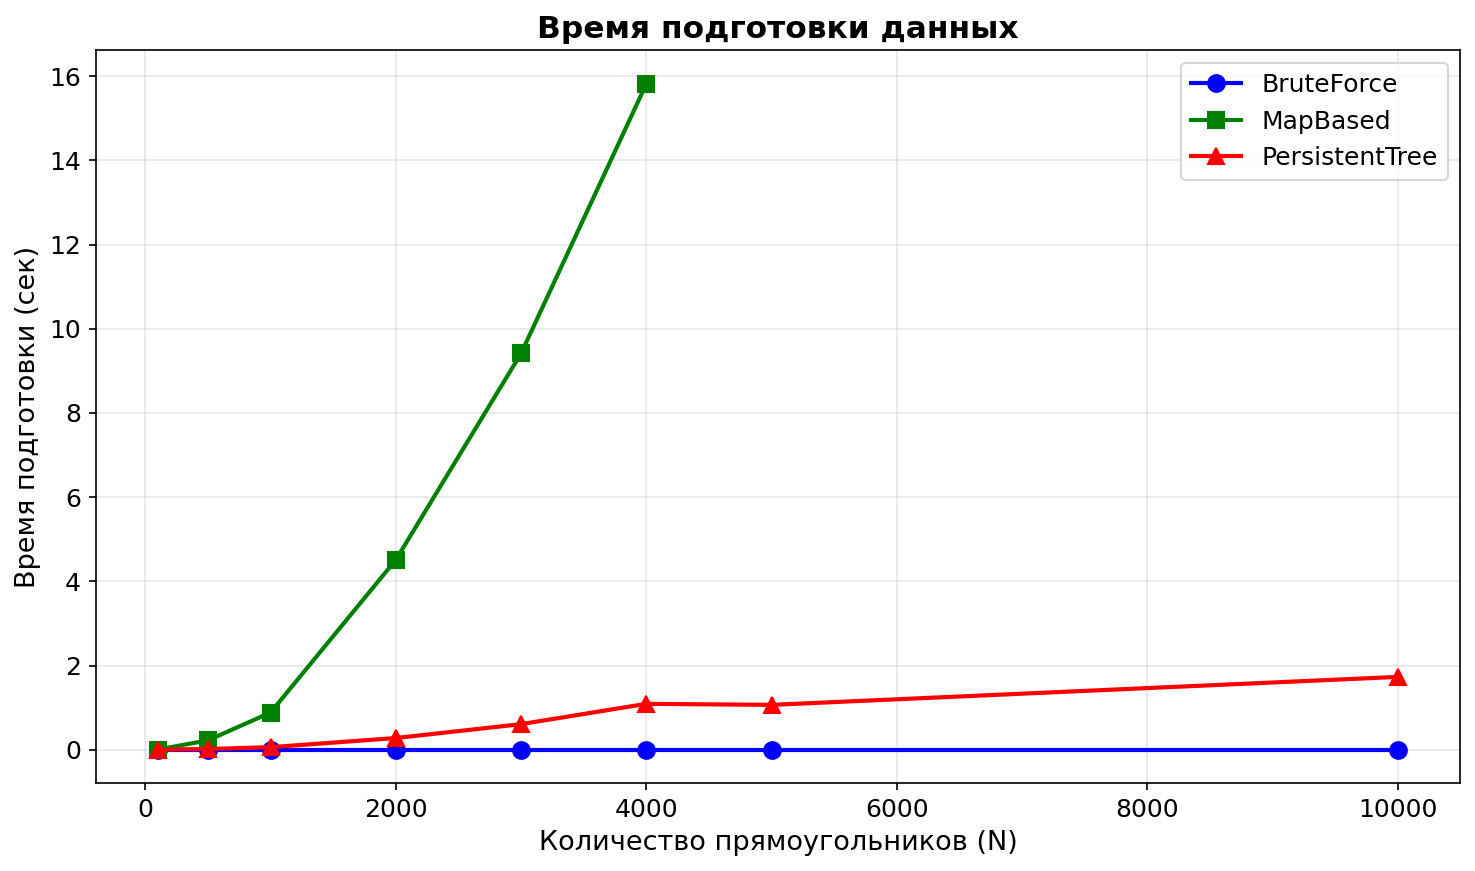
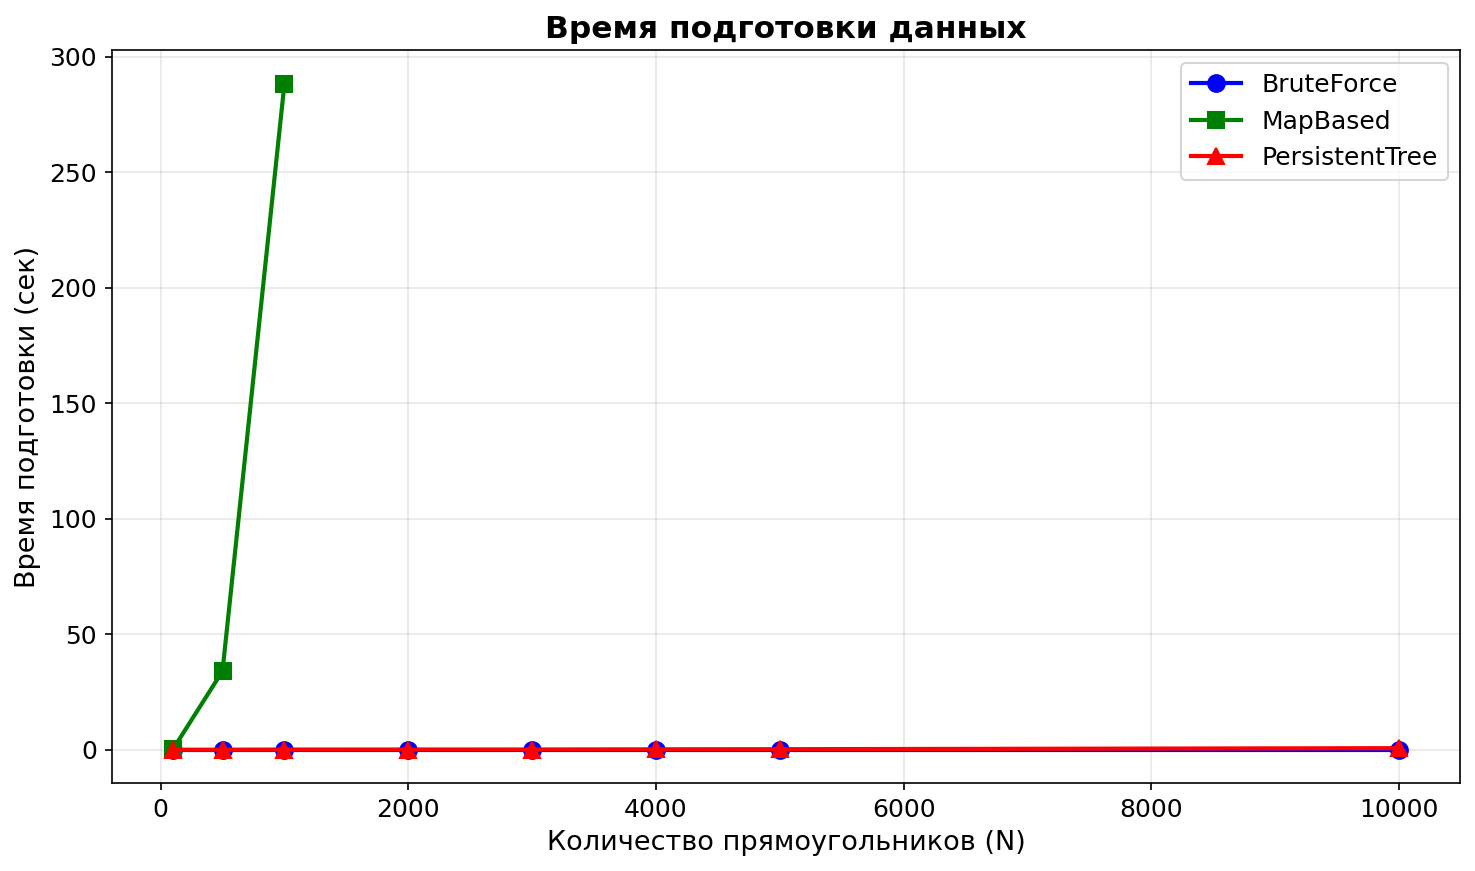
last one

diff --git a/benchmark.py b/benchmark.py
@@ -44,34 +44,22 @@ class MapBasedSolver:
         self.x_coords = sorted(x_set)
         self.y_coords = sorted(y_set)
         
-        x_map = {x: i for i, x in enumerate(self.x_coords)}
-        y_map = {y: i for i, y in enumerate(self.y_coords)}
-        
         nx = len(self.x_coords)
         ny = len(self.y_coords)
         
-        diff = [[0] * (ny + 1) for _ in range(nx + 1)]
-        
-        for x1, y1, x2, y2 in self.rectangles:
-            x1_idx = x_map[x1]
-            y1_idx = y_map[y1]
-            x2_idx = x_map[x2]
-            y2_idx = y_map[y2]
-            
-            diff[x1_idx][y1_idx] += 1
-            diff[x2_idx][y1_idx] -= 1
-            diff[x1_idx][y2_idx] -= 1
-            diff[x2_idx][y2_idx] += 1
-        
         self.grid = [[0] * (ny + 1) for _ in range(nx + 1)]
-        for i in range(nx):
-            for j in range(ny):
-                self.grid[i + 1][j + 1] = (
-                    self.grid[i][j + 1] + 
-                    self.grid[i + 1][j] - 
-                    self.grid[i][j] + 
-                    diff[i][j]
-                )
+        
+        for i in range(1, nx + 1):
+            for j in range(1, ny + 1):
+                x_cell = self.x_coords[i - 1]
+                y_cell = self.y_coords[j - 1]
+                
+                count = 0
+                for x1, y1, x2, y2 in self.rectangles:
+                    if x1 <= x_cell < x2 and y1 <= y_cell < y2:
+                        count += 1
+                
+                self.grid[i][j] = count
     
     def query(self, x: int, y: int) -> int:
         if self.grid is None:
@@ -304,7 +292,7 @@ def run_benchmarks():
         })
         print(f"  BruteForce: prep={t1-t0:.4f}s, query={t2-t1:.4f}s")
         
-        if n_rects <= 4000:
+        if n_rects <= 1000:
             mb = MapBasedSolver(rectangles)
             t0 = time.perf_counter()
             mb.prepare()

diff --git a/README.md b/README.md
@@ -1,2 +1,51 @@
-# lab2A
+## Генерация данных  
 
+Прямоугольники: генерировались вложенными друг в друга с координатами (10 * i, 10 * i, 10 * (2N-i), 10 * (2N-i))
+
+Точки запросов: генерировались неслучайным образом через хэш-функции от индекса i с разным базисом для x и y: (p * i)^31 % (20 * N), где p - большое простое число
+
+---
+
+## Методика измерений
+
+- Таймер: time.perf_counter()
+- Параметры: для каждого значения N (от 100 до 10000) генерировалось Q = 10 * N запросов
+- Алгоритмы: Brute Force, Map Based (сжатие координат), Persistent Segment Tree
+- Ограничения: из-за кубической сложности препроцессинга O(N^3) алгоритм Map Based не запускался для N > 4000
+- Оси графиков: по X - количество прямоугольников N, по Y - время в секундах
+
+---
+
+## Результаты по графикам
+
+### 1) Время подготовки (Preprocessing Time)
+
+![preprocessing](preprocessing_time.png)
+
+- MapBased - самый медленный препроцессинг, время растет экспоненциально (согласно O(N^3))
+- PersistentTree - демонстрирует стабильный рост O(N * log N)
+- BruteForce не требует препроцессинга
+
+---
+
+### 2) Время поиска (Query Time)
+
+![query](query_time.png)
+
+- BruteForce - улетает вверх, время растет линейно
+- MapBased - самый быстрый поиск O(log N), время почти не растет
+- PersistentTree - сопоставим с MapBased по скорости поиска O(log N)
+
+---
+
+## Итог
+
+1. Если данных мало (N < 500), BruteForce допустим из-за отсутствия подготовки, но на больших объемах он абсолютно непригоден
+2. MapBased выигрывает по скорости поиска, но его препроцессинг O(N^3) делает невозможной работу с выборками
+3. Persistent Segment Tree - самый сбалансированный алгоритм: умеренное время подготовки и стабильно быстрый поиск на любых дистанциях
+
+---
+
+## NB
+
+Алгоритм на карте был принудительно остановлен на N=4000, так как при N=5000 расчетное время подготовки превысило бы разумные пределы тестирования. На графиках поиска заметны колебания - это нормальный системный шум при замерах малых интервалов времени.
